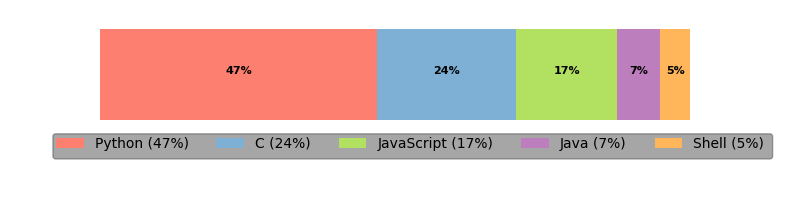
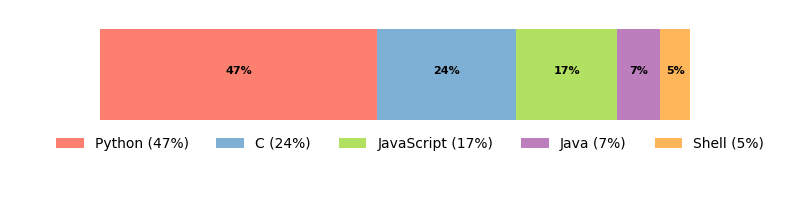
Fixed legend transparency

Changed region(s): [[0.0625, 0.66, 0.9688, 0.81]]

diff --git a/data/top_languages.py b/data/top_languages.py
@@ -146,7 +146,7 @@ def plot_github_top_languages(langs, mode):
     ax.set_position([box.x0, box.y0 + box.height * 0.35, box.width, box.height * 0.65])
 
     ax.legend(
-        loc="upper center", bbox_to_anchor=(0.5, 0), fancybox=True, shadow=True, ncol=5, framealpha=0, labelcolor="black" if mode == "light" else "white"
+        loc="upper center", bbox_to_anchor=(0.5, 0), fancybox=True, ncol=5, framealpha=0, labelcolor="black" if mode == "light" else "white"
     )
     plt.savefig(f"top_languages_{mode}.png", format='png', transparent=True)
 
